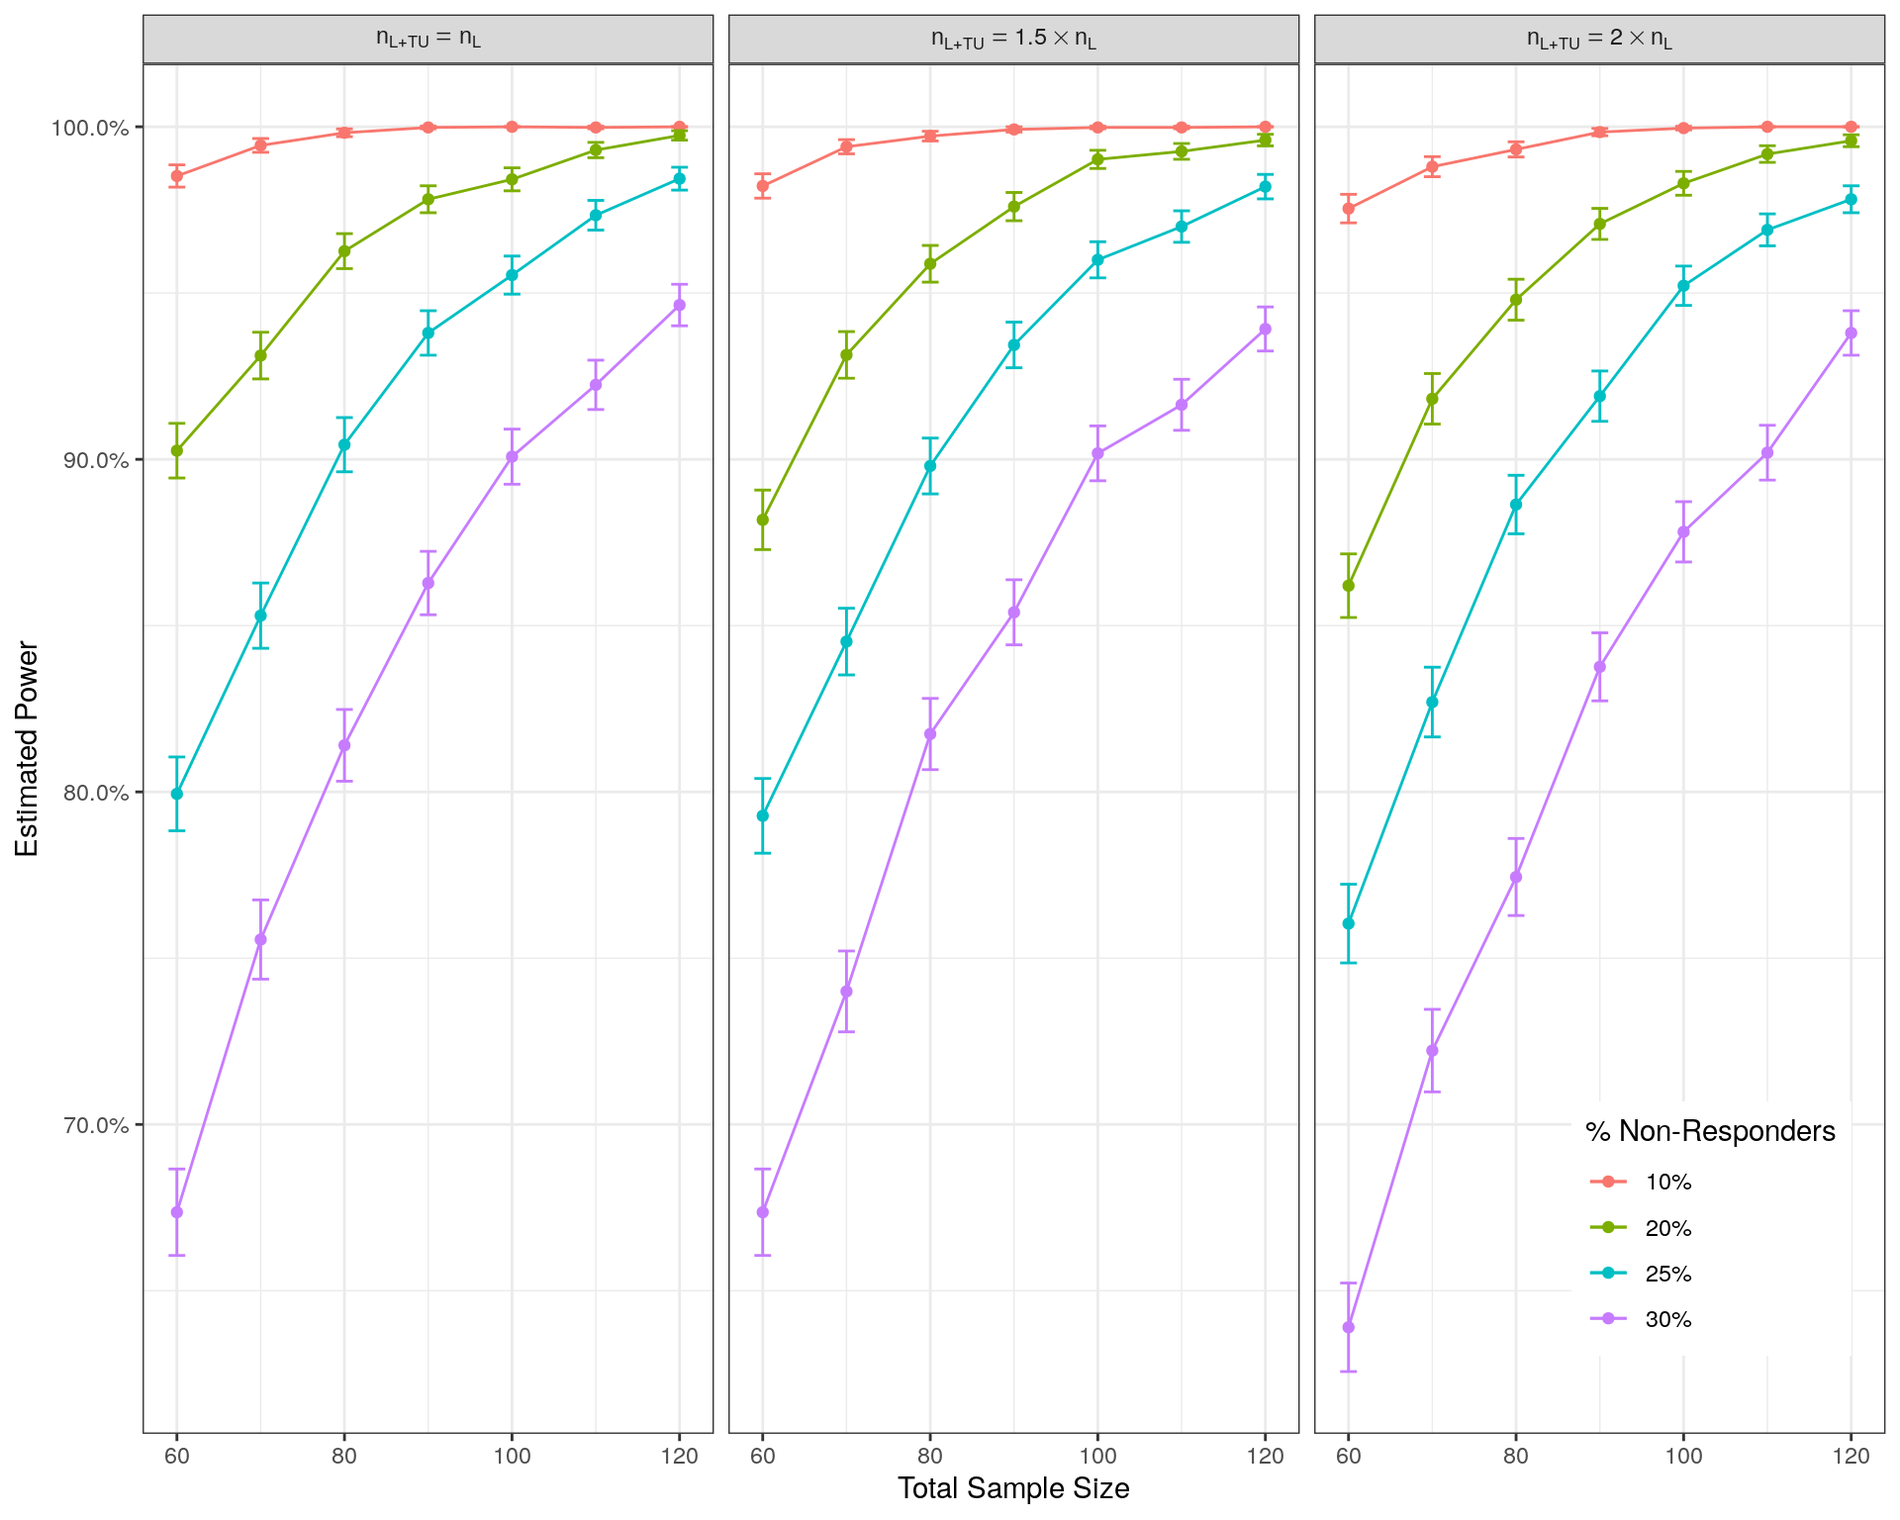
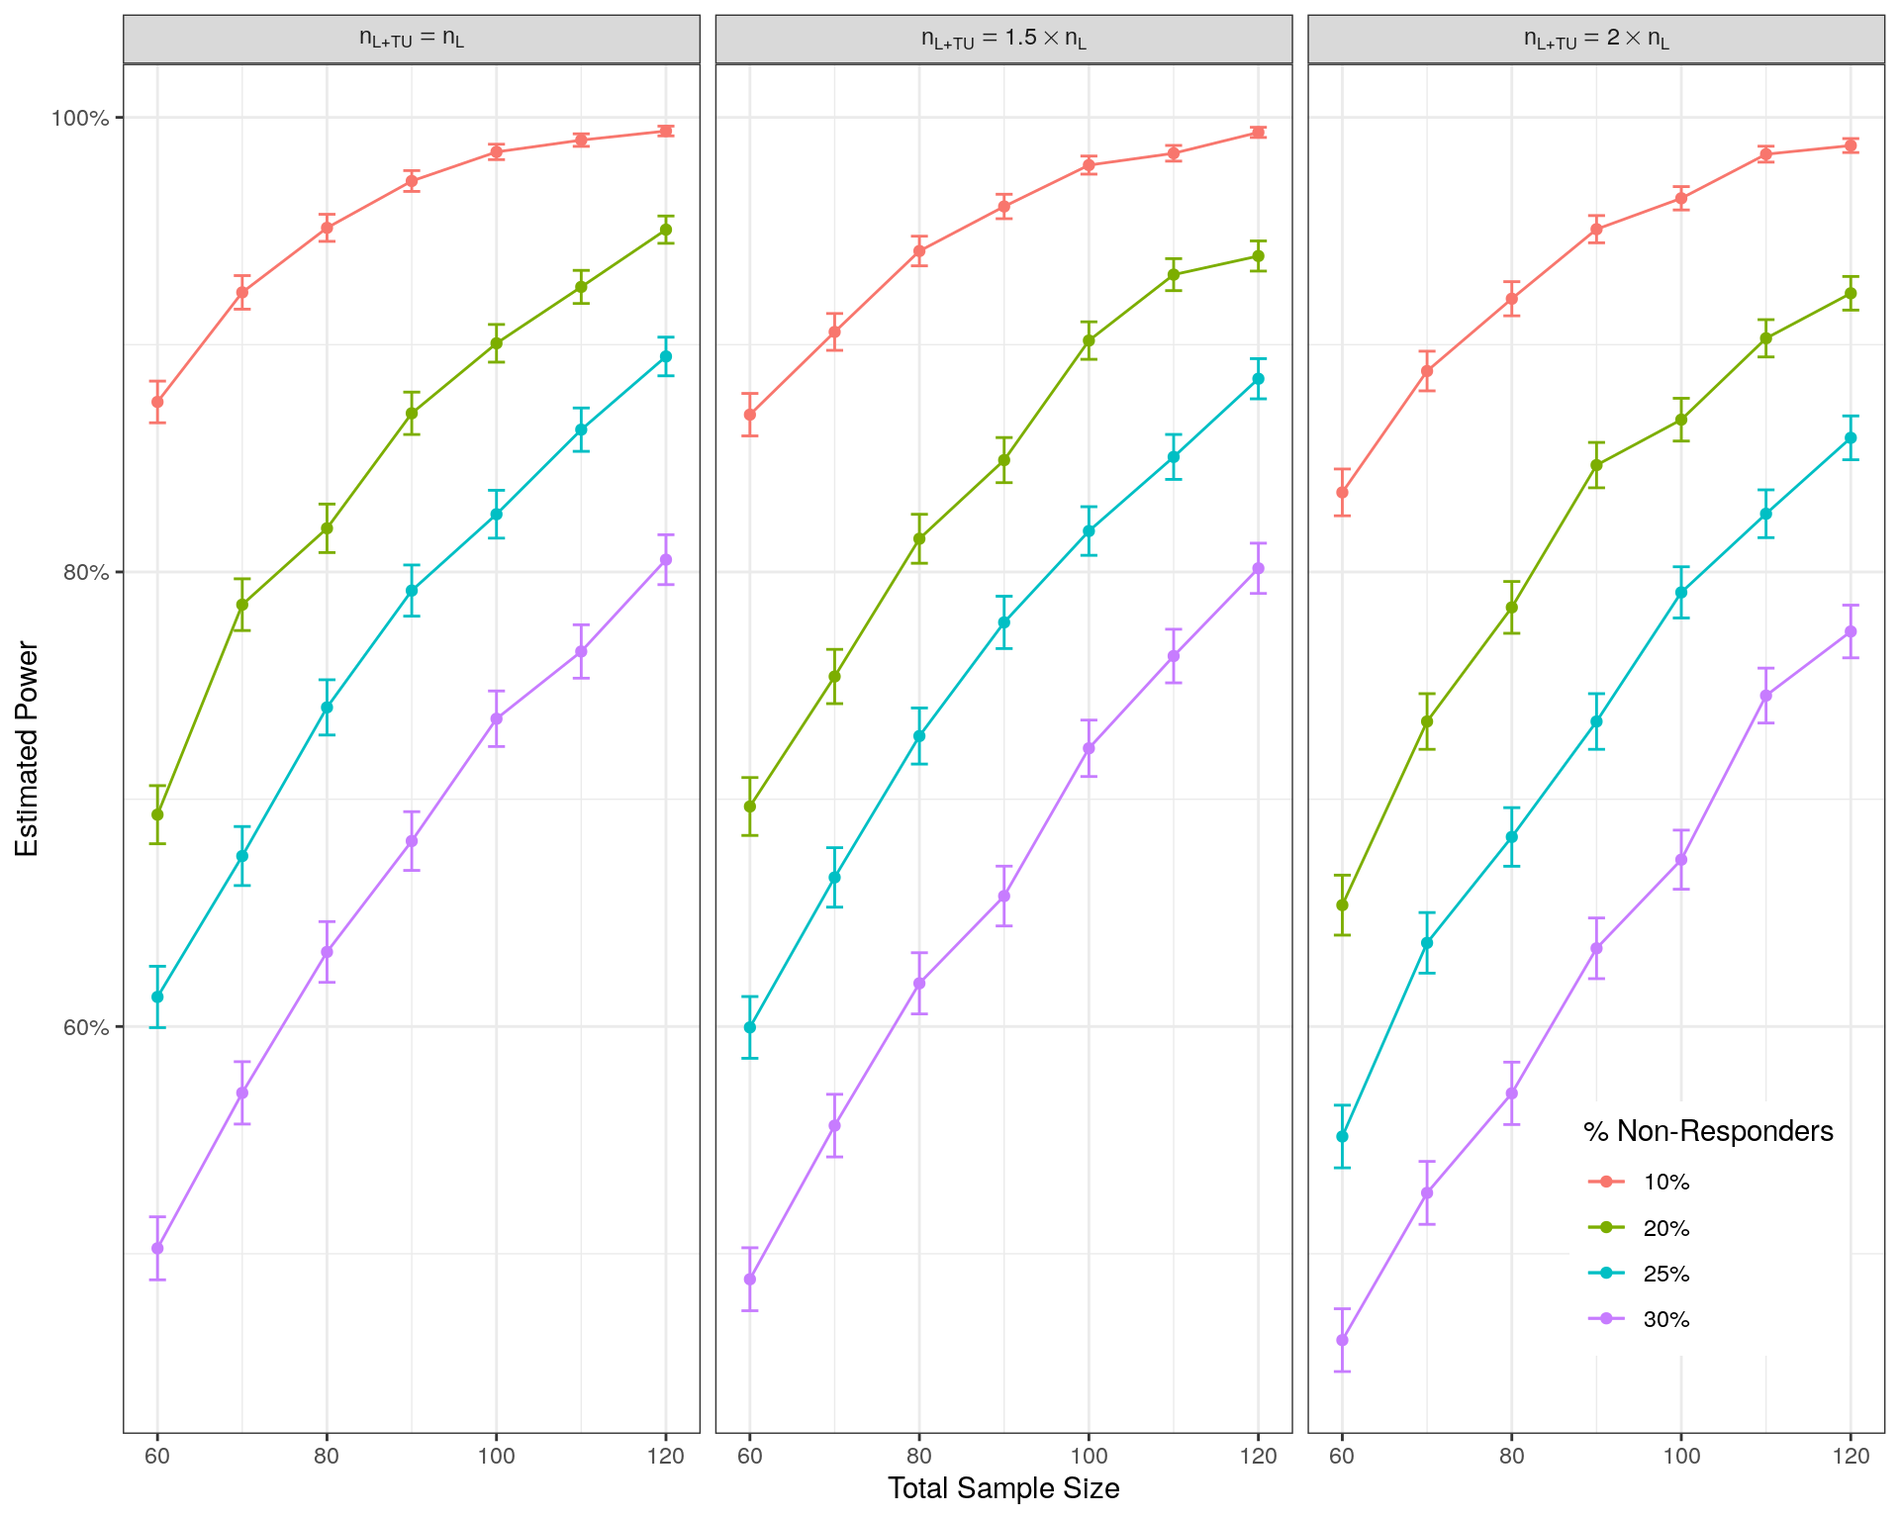
Build site.

diff --git a/docs/20210616_TULip_Ki67.html b/docs/20210616_TULip_Ki67.html
@@ -517,16 +517,16 @@ This reproducible <a href="http://rmarkdown.rstudio.com">R Markdown</a> analysis
 <div class="panel panel-default">
 <div class="panel-heading">
 <p class="panel-title">
-<a data-toggle="collapse" data-parent="#workflowr-checks" href="#strongRepositoryversionstrongahrefhttpsgithubcomDRMCRLpowercalculationstree895085c42fc2f8a8987829bc5ed7d4af22ef6bf8targetblank895085ca"> <span class="glyphicon glyphicon-ok text-success" aria-hidden="true"></span> <strong>Repository version:</strong> <a href="https://github.com/DRMCRL/power_calculations/tree/895085c42fc2f8a8987829bc5ed7d4af22ef6bf8" target="_blank">895085c</a> </a>
+<a data-toggle="collapse" data-parent="#workflowr-checks" href="#strongRepositoryversionstrongahrefhttpsgithubcomDRMCRLpowercalculationstree0f1fe7fbb6962393ad46cff53998d45d7e3277d7targetblank0f1fe7fa"> <span class="glyphicon glyphicon-ok text-success" aria-hidden="true"></span> <strong>Repository version:</strong> <a href="https://github.com/DRMCRL/power_calculations/tree/0f1fe7fbb6962393ad46cff53998d45d7e3277d7" target="_blank">0f1fe7f</a> </a>
 </p>
 </div>
[2 lines of base64/hex data omitted]
 <div class="panel-body">
 <p>
 Great! You are using Git for version control. Tracking code development and connecting the code version to the results is critical for reproducibility.
 </p>
 <p>
-The results in this page were generated with repository version <a href="https://github.com/DRMCRL/power_calculations/tree/895085c42fc2f8a8987829bc5ed7d4af22ef6bf8" target="_blank">895085c</a>. See the <em>Past versions</em> tab to see a history of the changes made to the R Markdown and HTML files.
+The results in this page were generated with repository version <a href="https://github.com/DRMCRL/power_calculations/tree/0f1fe7fbb6962393ad46cff53998d45d7e3277d7" target="_blank">0f1fe7f</a>. See the <em>Past versions</em> tab to see a history of the changes made to the R Markdown and HTML files.
 </p>
 <p>
 Note that you need to be careful to ensure that all relevant files for the analysis have been committed to Git prior to generating the results (you can use <code>wflow_publish</code> or <code>wflow_git_commit</code>). workflowr only checks the R Markdown file, but you know if there are other scripts or data files that it depends on. Below is the status of the Git repository when the results were generated:
@@ -576,6 +576,40 @@ Message
 </tr>
 </thead>
 <tbody>
+<tr>
+<td>
+Rmd
+</td>
+<td>
+<a href="https://github.com/DRMCRL/power_calculations/blob/0f1fe7fbb6962393ad46cff53998d45d7e3277d7/analysis/20210616_TULip_Ki67.Rmd" target="_blank">0f1fe7f</a>
+</td>
+<td>
+Steve Ped
+</td>
+<td>
+2021-06-17
+</td>
+<td>
+Changed alpha and reduced % to 75/91
+</td>
+</tr>
+<tr>
+<td>
+html
+</td>
+<td>
+<a href="https://rawcdn.githack.com/DRMCRL/power_calculations/9c74750c83f5b1950b68faef2843eba50573b1c1/docs/20210616_TULip_Ki67.html" target="_blank">9c74750</a>
+</td>
+<td>
+Steve Ped
+</td>
+<td>
+2021-06-17
+</td>
+<td>
+Build site.
+</td>
+</tr>
 <tr>
 <td>
 Rmd
@@ -869,6 +903,7 @@ library(parallel)</code></pre>
 <pre class="r"><code>theme_set(theme_bw())
 panderOptions(&quot;big.mark&quot;, &quot;,&quot;)
 panderOptions(&quot;table.split.table&quot;, Inf)
+panderOptions(&quot;digits&quot;, 3)
 geom_mean &lt;- function(x, ...){
   exp(mean(log(x), ...))
 }</code></pre>
@@ -877,11 +912,18 @@ geom_mean &lt;- function(x, ...){
 <p>The common measurement of Ki67 data is as a percentage of cells staining +ve for Ki67.</p>
 <div id="power-calculations" class="section level2">
 <h2>Power Calculations</h2>
+<div id="explanatory-notes" class="section level3">
+<h3>Explanatory Notes</h3>
 <p>In this study a comparison of an Aromatase Inhibitor treated arm (Letrazole) with a double-treated arm (Letrazole + Testosterone Undecanoate). The desired reduction in Ki67 for double-treated (L+TU) samples is an additional 20% beyond that seen by Letrazole alone.</p>
 <p>Based on the values observed in <a href="https://www.thelancet.com/journals/lanonc/article/PIIS1470-2045(20)30458-7/fulltext"><em>Long-term outcome and prognostic value of Ki67 after perioperative endocrine therapy in postmenopausal women with hormone-sensitive early breast cancer (POETIC): an open-label, multicentre, parallel-group, randomised, phase 3 trial</em> (The Lancet, 2020)</a>, untreated samples were simulated using a truncated normal distribution with location μ = 0.065 and scale σ = 0.19. Truncation points were the values 0 &amp; 1, and this gave distributions which provided broadly similar values for median and the IQR as obtained by this study.</p>
-<p>For simulations, data were assumed to be drawn from a Truncated Normal Distribution bounded at a = 0 and b = 1. Untreated Ki67 values were simulated from the Truncated Normal <span class="math inline">\(\mathcal{N}\)</span>(μ<sub>0</sub>, σ<sub>0</sub>) such that the resultant distribution strongly resembled those from <em>untreated samples</em> in the POETIC study. For both treatments, values were simulated by specifying values <em>a<sub>Let</sub></em> or <em>a<sub>L+TU</sub></em> such that data could be simulated from the Truncated distribution <span class="math inline">\(\mathcal{N}\)</span>(aμ<sub>0</sub>, √aσ<sub>0</sub>). This follows the principles of linear transformation of random variables. However, it is important to note that a 75% reduction in μ<sub>0</sub> (i.e. a = 0.25) will not result in a 75% reduction in either the mean or median values drawn from the transformed distribution.</p>
-<p>Whilst a non-responder rate to both compounds was simulated between 10% to 30%, it may of note that in <a href="https://cancerres.aacrjournals.org/content/63/19/6523.long">one early study</a> up to 25% of patients failed to respond to Letrazole. However, it should be noted that as part of the simulation process some non-responders may appear to be responders just by having low Ki67 values prior to intervention. This is relatively representative of the true data where some non-responders will not be able to be identified unless matched Ki67 values are obtained pre/post intervention.</p>
-<pre class="r"><code>sim_data &lt;- function(n0, n1, ki0 = 0.065, sigma0 = 0.19, delta1 = 0.95, delta2 = 0.998, p_non = 0.1, dropout = 0.05, ...){
+<p>For simulations, data were assumed to be drawn from a Truncated Normal Distribution bounded at a = 0 and b = 1. Untreated Ki67 values were simulated from the Truncated Normal <span class="math inline">\(\mathcal{N}\)</span>(μ<sub>0</sub>, σ<sub>0</sub>) such that the resultant distribution strongly resembled those from <em>untreated samples</em> in the POETIC study.</p>
+<p>For both treatments, values were simulated by specifying values <em>a<sub>Let</sub></em> or <em>a<sub>L+TU</sub></em> such that data could be simulated from the Truncated distribution <span class="math inline">\(\mathcal{N}\)</span>(aμ<sub>0</sub>, √aσ<sub>0</sub>). This follows the principles of linear transformation of random variables. However, it is important to note that a 75% reduction in the location parameter μ<sub>0</sub> (i.e. a = 0.25) will <em>not result in a 75% reduction in either the mean or median values drawn from the transformed distribution.</em></p>
+<p>Whilst a non-responder rate to both compounds was simulated between 10% to 30%, it may of note that in <a href="https://cancerres.aacrjournals.org/content/63/19/6523.long">one early study</a> up to 25% of patients failed to respond to Letrazole. However, it should be noted that as part of the simulation process some non-responders may appear to be responders just by having low Ki67 values prior to intervention. This is relatively representative of the true data where some non-responders will not be able to be identified unless matched Ki67 values are obtained pre/post intervention. Importantly, <strong>the non-responder rate was assumed to be equal between treatment groups</strong></p>
+<p>In addition to non-responders, a <em>participant dropout rate of 5%</em> was included into simulations.</p>
+</div>
+<div id="calculations" class="section level3">
+<h3>Calculations</h3>
+<pre class="r"><code>sim_data &lt;- function(n0, n1, ki0 = 0.065, sigma0 = 0.19, delta1 = 0.95, delta2 = 0.993, p_non = 0.1, dropout = 0.05, ...){
   
   ## Here n0 represents the letrazole arm, whilst n1 represents the combined arm
   ## The pre-treatment data is designed to replicate the POETIC data, with 
@@ -910,10 +952,10 @@ geom_mean &lt;- function(x, ...){
 
   list(pre = pre, let = let, ltu = ltu)
 }</code></pre>
-<pre class="r"><code>ki0 &lt;- 0.065
-sigma0 &lt;- 0.19
-delta1 &lt;- 0.95
-delta2 &lt;- 0.998
+<pre class="r"><code>ki0 &lt;- formals(sim_data)$ki0
+sigma0 &lt;- formals(sim_data)$sigma0
+delta1 &lt;- formals(sim_data)$delta1
+delta2 &lt;- formals(sim_data)$delta2
 const &lt;- function(mu, sigma, a, b){
   alpha &lt;- (a - mu)/sigma
   beta &lt;- (b - mu)/sigma
@@ -944,11 +986,12 @@ expected &lt;- list(
     justify = &quot;lrrrr&quot;,
     caption = &quot;
     Theoretical expected median Ki67% and the expected reduction in Ki67% using the default simulation parameters.
-    Values were set to show a slight overestimate of change, given that a proportion of non-responders were to be included in the simulations.
+    Values were set to show a slight overestimate of reduction, given that a varying proportion of non-responders were to be included in the simulations.
+    Reductions obtained below in simulations were more reflective of the intended values.
     &quot;
   )</code></pre>
 <table>
-<caption>Theoretical expected median Ki67% and the expected reduction in Ki67% using the default simulation parameters. Values were set to show a slight overestimate of change, given that a proportion of non-responders were to be included in the simulations.</caption>
+<caption>Theoretical expected median Ki67% and the expected reduction in Ki67% using the default simulation parameters. Values were set to show a slight overestimate of reduction, given that a varying proportion of non-responders were to be included in the simulations. Reductions obtained below in simulations were more reflective of the intended values.</caption>
 <colgroup>
 <col width="12%" />
 <col width="25%" />
@@ -978,22 +1021,20 @@ expected &lt;- list(
 <td align="right">3.0%</td>
 <td align="right">80.8%</td>
 <td align="right">0.00325</td>
-<td align="right">0.04249</td>
+<td align="right">0.0425</td>
 </tr>
 <tr class="odd">
 <td align="left">L+TU</td>
-<td align="right">0.6%</td>
-<td align="right">96.3%</td>
-<td align="right">0.00013</td>
-<td align="right">0.008497</td>
+<td align="right">1.1%</td>
+<td align="right">93.0%</td>
+<td align="right">0.000455</td>
+<td align="right">0.0159</td>
 </tr>
 </tbody>
 </table>
 <pre class="r"><code>set.seed(123)
 example_data &lt;- sim_data(
-  n0 = 1000, n1 =1000, 
-  ki0 = 0.065, sigma0 = 0.19, 
-  delta1 = 0.95, delta2 = 0.998
+  n0 = 1000, n1 =1000
 ) %&gt;%
   lapply(list) %&gt;%
   as_tibble()</code></pre>
@@ -1045,6 +1086,17 @@ Date
 <tbody>
 <tr>
 <td>
+<a href="https://github.com/DRMCRL/power_calculations/blob/9c74750c83f5b1950b68faef2843eba50573b1c1/docs/figure/20210616_TULip_Ki67.Rmd/example_boxplot-1.png" target="_blank">9c74750</a>
+</td>
+<td>
+Steve Ped
+</td>
+<td>
+2021-06-17
+</td>
+</tr>
+<tr>
+<td>
 <a href="https://github.com/DRMCRL/power_calculations/blob/5a6e4351ab01994a2fd2f9eb8f4e1ec317098621/docs/figure/20210616_TULip_Ki67.Rmd/example_boxplot-1.png" target="_blank">5a6e435</a>
 </td>
 <td>
@@ -1083,11 +1135,11 @@ Steve Ped
   pander(
     caption = &quot;
     Example simulated data showing an approximate recapitulation of the untreated samples in the POETIC study, along with reductions in the median Ki67% of 75% and 95%.
-    The 75% reduction simulated for Letrazole again recapitulates the POETIC dataset well where this reduction was also observed.
+    The 75% reduction simulated for Letrazole closely recapitulates the POETIC dataset where this reduction was also observed.
     &quot;
   )</code></pre>
 <table style="width:68%;">
-<caption>Example simulated data showing an approximate recapitulation of the untreated samples in the POETIC study, along with reductions in the median Ki67% of 75% and 95%. The 75% reduction simulated for Letrazole again recapitulates the POETIC dataset well where this reduction was also observed.</caption>
+<caption>Example simulated data showing an approximate recapitulation of the untreated samples in the POETIC study, along with reductions in the median Ki67% of 75% and 95%. The 75% reduction simulated for Letrazole closely recapitulates the POETIC dataset where this reduction was also observed.</caption>
 <colgroup>
 <col width="16%" />
 <col width="12%" />
@@ -1111,20 +1163,21 @@ Steve Ped
 </tr>
 <tr class="even">
 <td align="center">Let</td>
-<td align="center">3.4%</td>
+<td align="center">3.3%</td>
 <td align="center">[1.5%, 5.8%]</td>
-<td align="center">77.7%</td>
+<td align="center">78.5%</td>
 </tr>
 <tr class="odd">
 <td align="center">L+TU</td>
-<td align="center">0.6%</td>
-<td align="center">[0.3%, 1.2%]</td>
-<td align="center">95.9%</td>
+<td align="center">1.2%</td>
+<td align="center">[0.5%, 2.1%]</td>
+<td align="center">92.2%</td>
 </tr>
 </tbody>
 </table>
 <pre class="r"><code>n_sim &lt;- 5000
-alpha &lt;- 0.025
+if (interactive()) n_sim &lt;- 1000 # For faster working interactively
+alpha &lt;- 0.05
 N &lt;- seq(60, 120, by = 10)
 n0 &lt;- floor(c(N/2, N/2.5, N/3))
 n1 &lt;- rep(N, 3) - n0</code></pre>
@@ -1240,6 +1293,17 @@ Date
 <tbody>
 <tr>
 <td>
+<a href="https://github.com/DRMCRL/power_calculations/blob/9c74750c83f5b1950b68faef2843eba50573b1c1/docs/figure/20210616_TULip_Ki67.Rmd/plot_curves-1.png" target="_blank">9c74750</a>
+</td>
+<td>
+Steve Ped
+</td>
+<td>
+2021-06-17
+</td>
+</tr>
+<tr>
+<td>
 <a href="https://github.com/DRMCRL/power_calculations/blob/5a6e4351ab01994a2fd2f9eb8f4e1ec317098621/docs/figure/20210616_TULip_Ki67.Rmd/plot_curves-1.png" target="_blank">5a6e435</a>
 </td>
 <td>
@@ -1331,10 +1395,10 @@ Steve Ped
       .fns = median
     )
   ) %&gt;%
-  mutate(diff = red_ltu - red_let) %&gt;%
+  mutate(diff = 1 - red_ltu / red_let) %&gt;%
   mutate_all(percent, accuracy = 0.1) %&gt;%
   rename(
-    `% Non-Responser` = p_non,
+    `% Non-Responder` = p_non,
     Difference = diff
   ) %&gt;%
   rename_all(
@@ -1384,7 +1448,7 @@ Steve Ped
 </colgroup>
 <thead>
 <tr class="header">
-<th align="right">% Non-Responser</th>
+<th align="right">% Non-Responder</th>
 <th align="right">Median Ki67 (Untreated)</th>
 <th align="right">Median Ki67 (Let)</th>
 <th align="right">Median Ki67 (L+TU)</th>
@@ -1398,40 +1462,41 @@ Steve Ped
 <td align="right">10.0%</td>
 <td align="right">15.6%</td>
 <td align="right">3.3%</td>
-<td align="right">0.7%</td>
+<td align="right">1.2%</td>
 <td align="right">78.8%</td>
-<td align="right">95.8%</td>
-<td align="right">17.0%</td>
+<td align="right">92.1%</td>
+<td align="right">-16.9%</td>
 </tr>
 <tr class="even">
 <td align="right">20.0%</td>
 <td align="right">15.6%</td>
 <td align="right">3.7%</td>
-<td align="right">0.7%</td>
+<td align="right">1.4%</td>
 <td align="right">76.3%</td>
-<td align="right">95.2%</td>
-<td align="right">18.9%</td>
+<td align="right">91.0%</td>
+<td align="right">-19.3%</td>
 </tr>
 <tr class="odd">
 <td align="right">25.0%</td>
-<td align="right">15.6%</td>
+<td align="right">15.5%</td>
 <td align="right">3.9%</td>
-<td align="right">0.8%</td>
+<td align="right">1.5%</td>
 <td align="right">74.8%</td>
-<td align="right">94.8%</td>
-<td align="right">19.9%</td>
+<td align="right">90.3%</td>
+<td align="right">-20.7%</td>
 </tr>
 <tr class="even">
 <td align="right">30.0%</td>
 <td align="right">15.5%</td>
 <td align="right">4.2%</td>
-<td align="right">0.9%</td>
+<td align="right">1.6%</td>
 <td align="right">73.1%</td>
-<td align="right">94.3%</td>
-<td align="right">21.2%</td>
+<td align="right">89.4%</td>
+<td align="right">-22.3%</td>
 </tr>
 </tbody>
 </table>
+</div>
 </div>
 <div id="conclusion" class="section level2">
 <h2>Conclusion</h2>
@@ -1441,7 +1506,7 @@ Steve Ped
 <li><em>Including an additional 50% of participants in the combined treatment group</em> is able to achieve a power &gt; 90% at N = 100 (n<sub>Let</sub> = 40; n<sub>L+TU</sub> = 60)</li>
 <li><em>Including double the number of participants in the combined treatment group</em> is able to achieve a power of 90% at N &gt; 100 (n<sub>Let</sub> = 35; n<sub>L+TU</sub> = 70)</li>
 </ul>
-<p>Importantly a <em>sample size of 100 participants</em> exceeds a power of 80% for all combinations of n<sub>L+TU</sub> and n<sub>L</sub> and all non-response rates. Allowing for drop-outs, a recommended total sample size for the study should be 100-110 participants.</p>
+<p>Importantly a <em>sample size of 100 participants</em> exceeds a power of 80% for all combinations of n<sub>L+TU</sub> and n<sub>L</sub> and all non-response rates. All simulations included a dropout rate of 5%</p>
 <br>
 <p>
 <button type="button" class="btn btn-default btn-workflowr btn-workflowr-sessioninfo" data-toggle="collapse" data-target="#workflowr-sessioninfo" style="display: block;">
